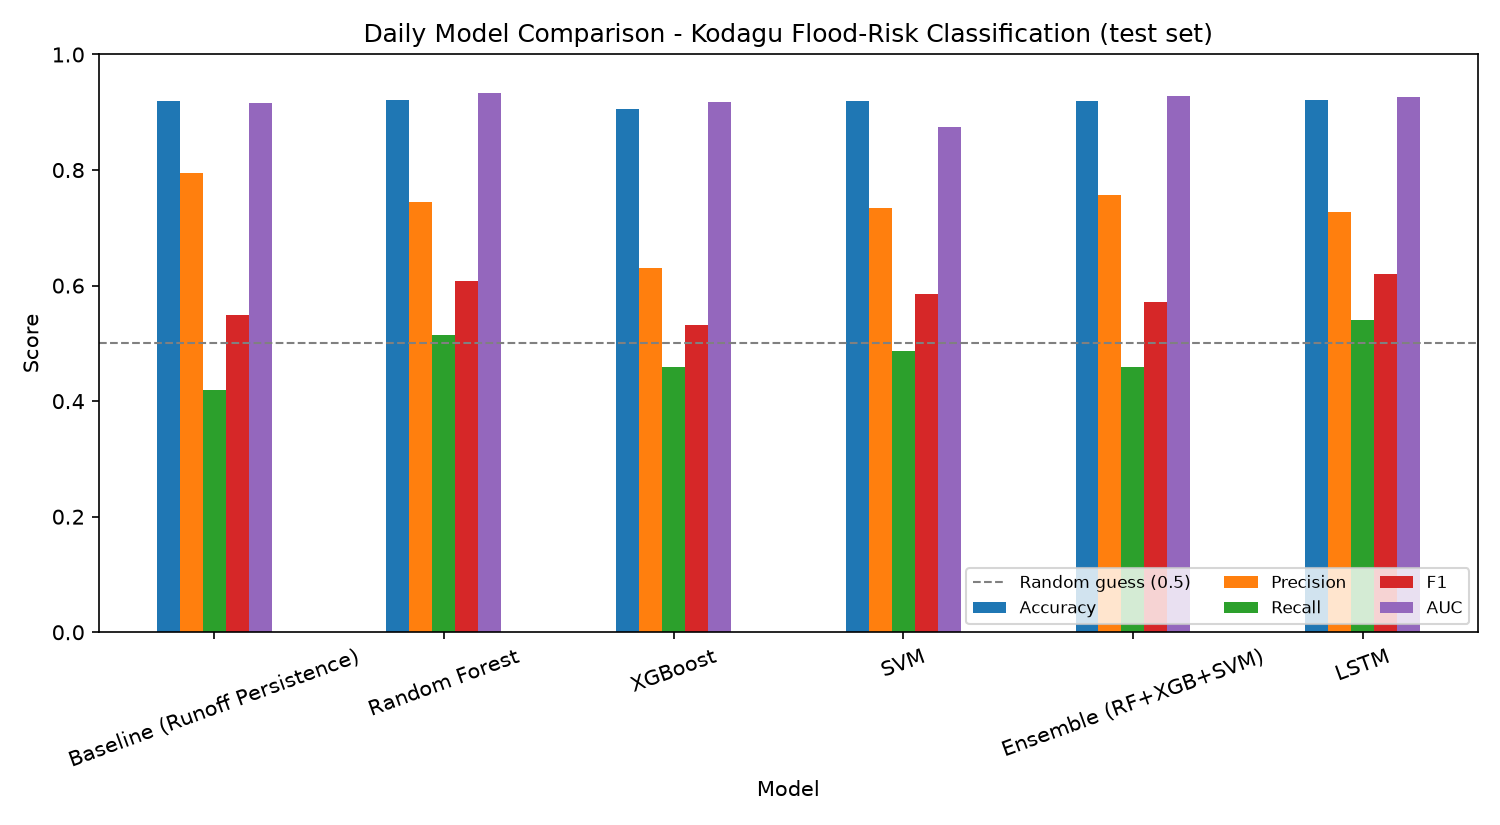
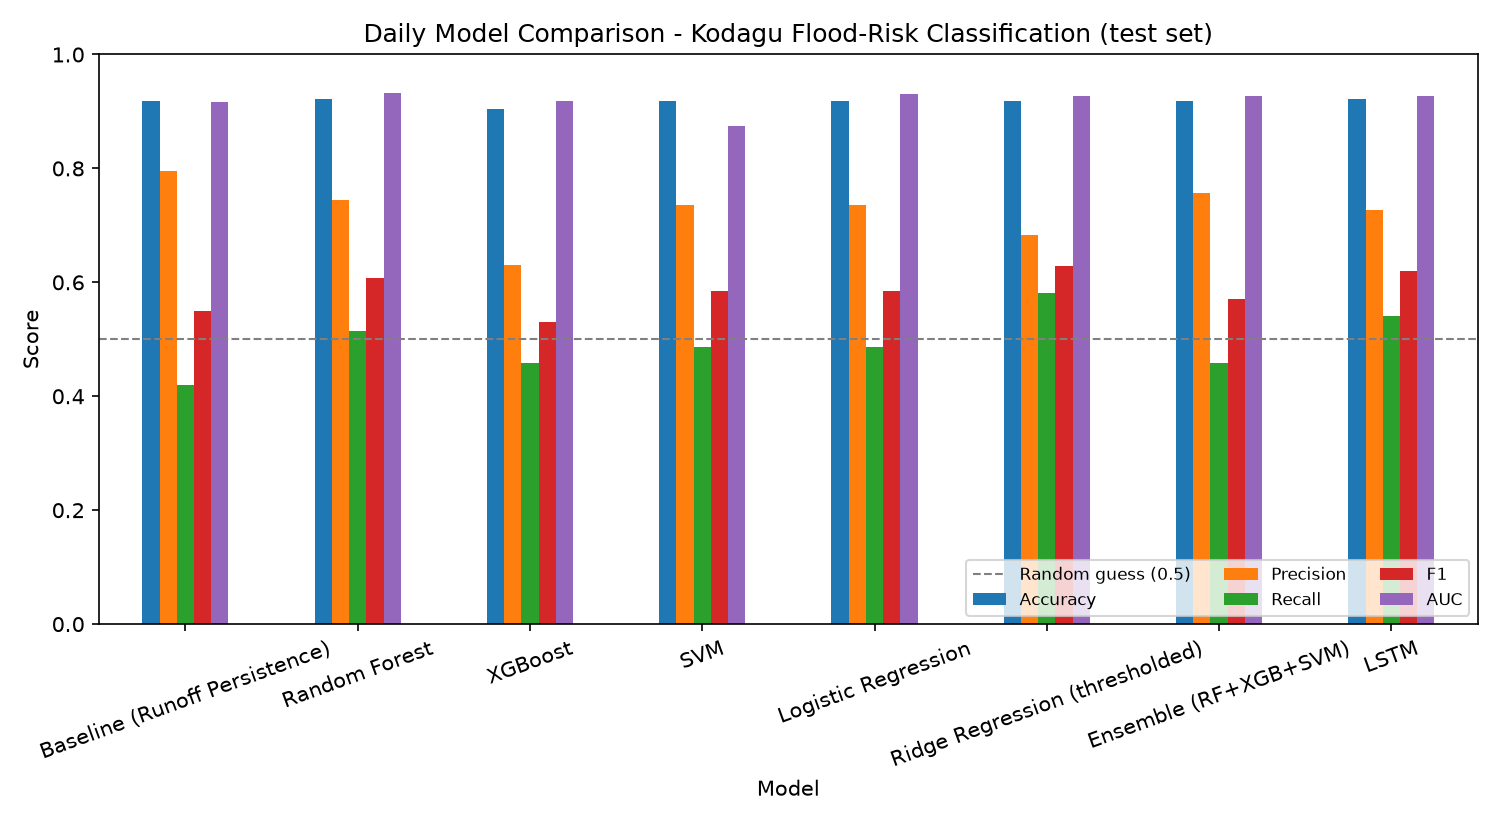
feat: add Logistic Regression and Ridge Regression to the daily model comparison
Guide's feedback: RF/XGBoost/SVM/LSTM/Ensemble are the models every
group compares - add classical regression-family baselines too.

- Logistic Regression: standard linear classification baseline.
  Scored 0.930 AUC, nearly matching Random Forest (0.933) - suggests
  the flood signal is largely linearly separable in this data.
- Ridge Regression: genuine regression on the continuous runoff_mm
  target (not the binary label), thresholded post-hoc at the same
  cutoff used to define flood_risk. Reports real regression metrics
  (MAE 8.51mm, RMSE 21.41mm, R2 0.433) in addition to the thresholded
  classification metrics. Achieved the highest recall of all 8 models
  (58.1%), the most operationally relevant metric for a flood warning
  use case.

Claude-Session: https://claude.ai/code/session_014qne9kbHRGb5fqPnepMUNg

diff --git a/src/models/train_models_daily.py b/src/models/train_models_daily.py
@@ -30,8 +30,10 @@ import matplotlib.pyplot as plt
 import numpy as np
 import pandas as pd
 from sklearn.ensemble import RandomForestClassifier
+from sklearn.linear_model import LogisticRegression, Ridge
 from sklearn.metrics import (
-    accuracy_score, f1_score, precision_score, recall_score, roc_auc_score, roc_curve,
+    accuracy_score, f1_score, mean_absolute_error, mean_squared_error,
+    precision_score, r2_score, recall_score, roc_auc_score, roc_curve,
 )
 from sklearn.preprocessing import StandardScaler
 from sklearn.svm import SVC
@@ -154,6 +156,32 @@ def run():
     results.append(evaluate("SVM", y_test, svm_pred, svm_score))
     roc_data["SVM"] = roc_curve(y_test, svm_score)[:2]
 
+    # --- Logistic Regression (classic linear classification baseline) ---
+    logreg = LogisticRegression(max_iter=1000, random_state=RANDOM_STATE)
+    logreg.fit(X_train_s, y_train)
+    logreg_score = logreg.predict_proba(X_test_s)[:, 1]
+    logreg_pred = logreg.predict(X_test_s)
+    results.append(evaluate("Logistic Regression", y_test, logreg_pred, logreg_score))
+    roc_data["Logistic Regression"] = roc_curve(y_test, logreg_score)[:2]
+
+    # --- Ridge Regression: genuine regression on continuous runoff_mm, ---
+    # --- then thresholded at the same cutoff used to define flood_risk ---
+    y_train_runoff = train["runoff_mm"].values
+    y_test_runoff = test["runoff_mm"].values
+    ridge = Ridge(alpha=1.0, random_state=RANDOM_STATE)
+    ridge.fit(X_train_s, y_train_runoff)
+    ridge_pred_runoff = ridge.predict(X_test_s)
+
+    reg_mae = mean_absolute_error(y_test_runoff, ridge_pred_runoff)
+    reg_rmse = np.sqrt(mean_squared_error(y_test_runoff, ridge_pred_runoff))
+    reg_r2 = r2_score(y_test_runoff, ridge_pred_runoff)
+    print(f"\nRidge Regression - continuous runoff_mm prediction (not a 0/1 classifier):")
+    print(f"  MAE: {reg_mae:.2f} mm   RMSE: {reg_rmse:.2f} mm   R2: {reg_r2:.3f}")
+
+    ridge_class_pred = (ridge_pred_runoff > thresh).astype(int)
+    results.append(evaluate("Ridge Regression (thresholded)", y_test, ridge_class_pred, ridge_pred_runoff))
+    roc_data["Ridge Regression (thresholded)"] = roc_curve(y_test, ridge_pred_runoff)[:2]
+
     # --- Ensemble ---
     ens_score = (rf_score + xgb_score + svm_score) / 3
     ens_pred = (ens_score > 0.5).astype(int)
@@ -185,6 +213,9 @@ def run():
             "runoff_threshold_mm": float(thresh),
             "best_model_by_auc": best_model,
             "date_range": [str(df["date"].min().date()), str(df["date"].max().date())],
+            "ridge_regression_continuous_runoff": {
+                "mae_mm": float(reg_mae), "rmse_mm": float(reg_rmse), "r2": float(reg_r2),
+            },
         }, f, indent=2)
 
     ax = comparison[["Accuracy", "Precision", "Recall", "F1", "AUC"]].plot(
